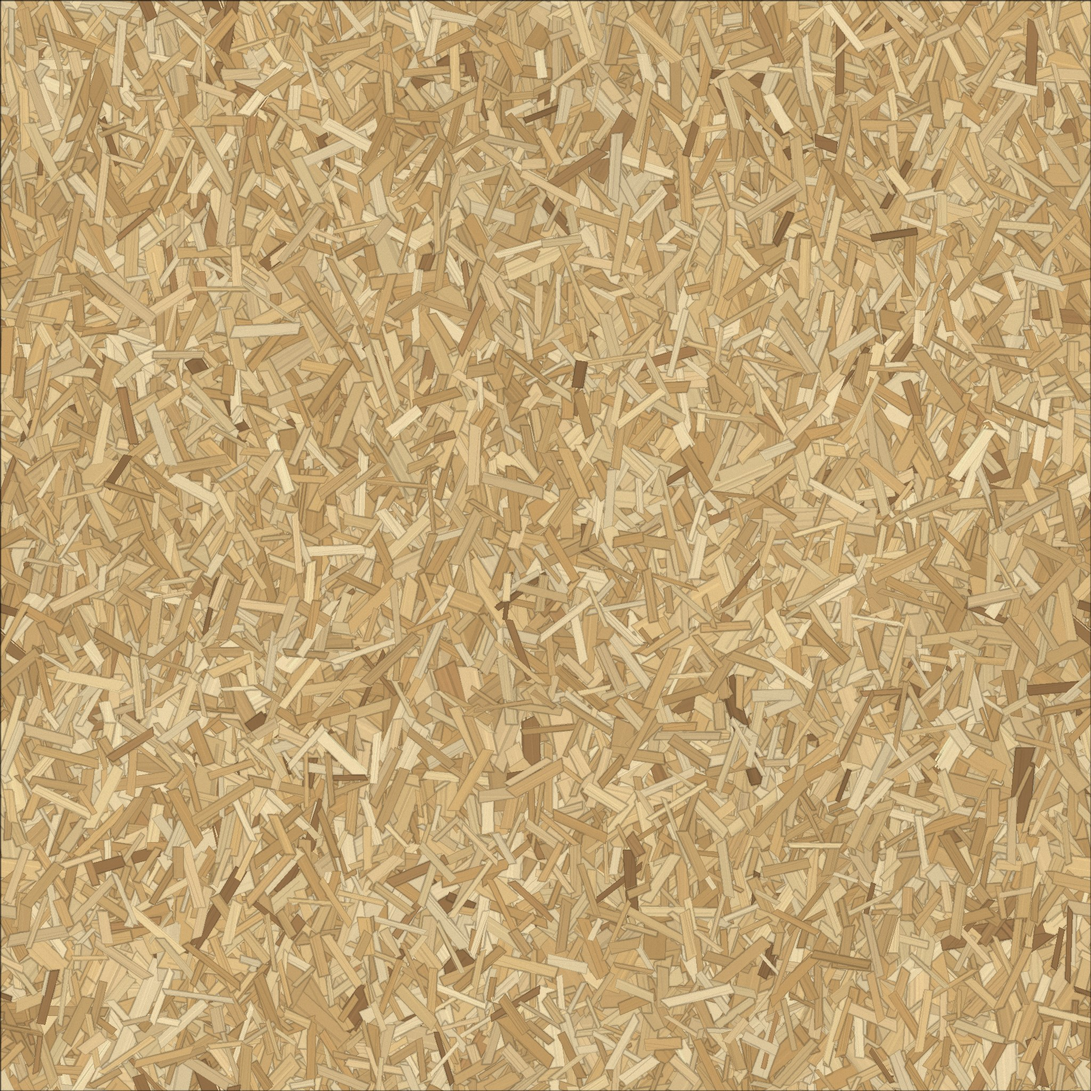
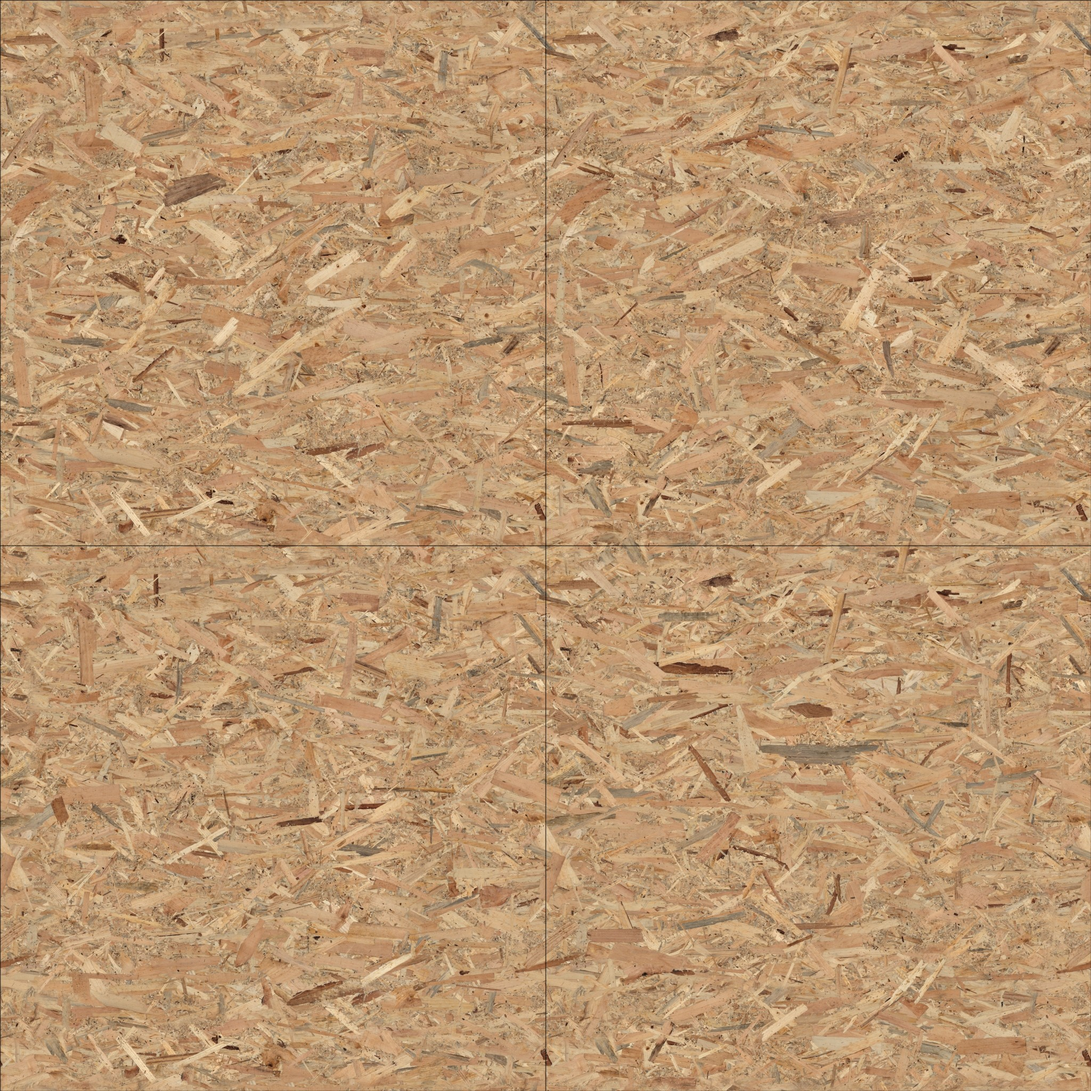
Family home walls use the Poly Haven OSB texture (CC0), two sheets per tile with seams

diff --git a/src/world.rs b/src/world.rs
@@ -60,7 +60,7 @@ pub struct Mats {
     pub locker: Handle<StandardMaterial>, pub barrel: Handle<StandardMaterial>, pub fabric: Handle<StandardMaterial>, pub steel: Handle<StandardMaterial>,
     pub gun: Handle<StandardMaterial>, pub poly: Handle<StandardMaterial>, pub glove: Handle<StandardMaterial>, pub sleeve: Handle<StandardMaterial>,
     pub brass: Handle<StandardMaterial>, pub cloth: Handle<StandardMaterial>, pub gear: Handle<StandardMaterial>, pub invisible: Handle<StandardMaterial>,
-    /// Kill house de madeira: chapa de OSB (uma chapa de 1,22 m por repetição) e sarrafo da estrutura.
+    /// Kill house de madeira: chapa de OSB (textura do Poly Haven, duas chapas de 1,22 m por repetição) e sarrafo da estrutura.
     pub ply: Handle<StandardMaterial>, pub lumber: Handle<StandardMaterial>,
 }
 
@@ -218,6 +218,9 @@ pub fn map_switch(
 
 /// Largura da chapa de compensado da kill house.
 const SHEET: f32 = 1.22;
+/// Escala da textura de OSB (Poly Haven, 2,5 m de chapa fotografada): duas chapas de 1,22 m por repetição, com a junta
+/// de cada chapa escurecida na própria textura (`tools/prep_osb.py`).
+const OSB_UV: f32 = 1.0 / (2.0 * SHEET);
 
 /// Estrutura de sarrafo aparente das paredes da kill house, como numa parede de OSB de verdade: só de um lado (o outro
 /// lado é a chapa lisa, com as juntas à vista). Guias em cima e embaixo, montantes em pé a cada meia chapa e uma travessa
@@ -278,7 +281,7 @@ pub fn spawn_map(commands: &mut Commands, meshes: &mut Assets<Mesh>, mats: &mut 
     let ply = map_index() == 5;
     let (w_lo, w_hi) = if ply { (&m.ply, &m.ply) } else { (&m.wall_lo, &m.wall_hi) };
     // cada repetição da textura é uma chapa de 1,22 m: as juntas das chapas caem sempre no mesmo lugar do mundo
-    let ws = if ply { 1.0 / SHEET } else { 1.0 };
+    let ws = if ply { OSB_UV } else { 1.0 };
     sb(&mut *commands, &mut *meshes, &lo, ws, w_lo);
     sb(&mut *commands, &mut *meshes, &hi, ws, w_hi);
     if ply { sb(&mut *commands, &mut *meshes, &framing(&level.walls), 1.0, &m.lumber); }
@@ -372,7 +375,7 @@ pub fn spawn_map(commands: &mut Commands, meshes: &mut Assets<Mesh>, mats: &mut 
             }
             // peitoril de janela: meia parede de OSB no vão, com uma régua de sarrafo em cima
             PropKind::Sill => {
-                sb(&mut *commands, &mut *meshes, &[b3(p.x1, 0.0, p.z1, p.x2, p.h - 0.04, p.z2)], 1.0 / SHEET, &m.ply);
+                sb(&mut *commands, &mut *meshes, &[b3(p.x1, 0.0, p.z1, p.x2, p.h - 0.04, p.z2)], OSB_UV, &m.ply);
                 sb(&mut *commands, &mut *meshes, &[b3(p.x1 - 0.015, p.h - 0.04, p.z1 - 0.03, p.x2 + 0.015, p.h, p.z2 + 0.03)], 1.0, &m.lumber);
             }
             PropKind::Cover => {
@@ -436,7 +439,7 @@ pub fn spawn_map(commands: &mut Commands, meshes: &mut Assets<Mesh>, mats: &mut 
             while y < WALL_H - 0.05 { ladders.push(b3(cx - 0.19, y, z - 0.012, cx + 0.19, y + 0.028, z + 0.012)); y += 0.3; }
         }
         if ply {
-            sb(&mut *commands, &mut *meshes, &steps, 1.0 / SHEET, &m.ply);
+            sb(&mut *commands, &mut *meshes, &steps, OSB_UV, &m.ply);
             sb(&mut *commands, &mut *meshes, &nosing, 1.0, &m.lumber);
         } else {
             sb(&mut *commands, &mut *meshes, &steps, 1.0, &granite);
@@ -447,7 +450,7 @@ pub fn spawn_map(commands: &mut Commands, meshes: &mut Assets<Mesh>, mats: &mut 
             commands.spawn((Mesh3d(meshes.add(Cuboid::new(0.045, 0.09, d.length()))), MeshMaterial3d(if ply { m.lumber.clone() } else { white.clone() }),
                 Transform::from_translation((pa + pb) / 2.0).looking_to(d.normalize(), Vec3::Y), NotShadowCaster, MapEntity));
         }
-        sb(&mut *commands, &mut *meshes, &lining, if ply { 1.0 / SHEET } else { 0.6 }, if ply { &m.ply } else { &m.wall_lo });
+        sb(&mut *commands, &mut *meshes, &lining, if ply { OSB_UV } else { 0.6 }, if ply { &m.ply } else { &m.wall_lo });
         sb(&mut *commands, &mut *meshes, &ladders, 1.0, &m.frame);
         sb(&mut *commands, &mut *meshes, &holes, 1.0, &dark);
     }

diff --git a/tools/prep_osb.py b/tools/prep_osb.py
@@ -1,0 +1,26 @@
+"""Prepara a textura de OSB das paredes da kill house a partir da "Oriented Strand Board" do Poly Haven (CC0, Dimitrios Savva).
+
+Baixe os arquivos jpg de 2K (diff, nor_gl, arm) de https://polyhaven.com/a/oriented_strand_board para uma pasta, com os
+nomes osb_diff.jpg, osb_nor_gl.jpg e osb_arm.jpg. Uso: python3 tools/prep_osb.py <pasta> assets/tex
+Escurece a junta a cada chapa de 1,22 m, tira o brilho de verniz e grava killosb_diff/nor/arm.jpg.
+"""
+import sys, numpy as np
+from PIL import Image
+src, tex = sys.argv[1], sys.argv[2]
+d = np.asarray(Image.open(f'{src}/osb_diff.jpg').convert('RGB')).astype(np.float32) / 255
+N = d.shape[0]
+print('media srgb', d.mean(axis=(0, 1)))
+# a textura cobre 2,51 m: usada como duas chapas de 1,22 m por repetição; junta escura de 2 mm a cada chapa
+y, x = np.mgrid[0:N, 0:N] / N
+for c in (x, y):
+    t = (c * 2.0) % 1.0
+    dist = np.minimum(t, 1 - t) * 1220.0
+    d *= (1 - 0.7 * np.clip(1 - dist / 1.6, 0, 1))[..., None]
+Image.fromarray((np.clip(d, 0, 1) * 255).astype(np.uint8)).save(f'{tex}/killosb_diff.jpg', quality=90)
+Image.open(f'{src}/osb_nor_gl.jpg').convert('RGB').save(f'{tex}/killosb_nor.jpg', quality=90)
+a = np.asarray(Image.open(f'{src}/osb_arm.jpg').convert('RGB')).astype(np.float32) / 255
+print('aspereza media', a[..., 1].mean())
+a[..., 1] = np.clip(0.72 + a[..., 1] * 0.28, 0, 1)   # chapa crua, sem verniz
+a[..., 2] = 0
+Image.fromarray((a * 255).astype(np.uint8)).save(f'{tex}/killosb_arm.jpg', quality=90)
+Image.open(f'{tex}/killosb_diff.jpg').crop((0, 0, 1100, 1100)).resize((700, 700)).save(f'{src}/prev.jpg', quality=88)

diff --git a/CREDITS.md b/CREDITS.md
@@ -14,6 +14,8 @@ A teaching tool for close-quarters battle fundamentals. Real technique is learne
 - Textures: Concrete Floor Worn 001, Concrete Block Wall, Concrete Wall 008, Painted Concrete, Plywood, Metal Plate, Blue Metal Plate, Green Metal Rust, Rusty Painted Metal
 - Models: Barrel 01, Sofa 01, Wooden Table 01, Ammo Box, Cardboard Box 01, Korean Fire Extinguisher 01, Metal Office Desk, Mounted Fluorescent Lights, Steel Frame Shelves 01, Vintage Cabinet 01, Wooden Military Crate
 
+- Oriented Strand Board (walls of the family home), by Dimitrios Savva. Sheet seams added and gloss removed with `tools/prep_osb.py`.
+
 ## Sounds — Freesound.org (all CC0 1.0)
 | File | Author | Source |
 |---|---|---|
